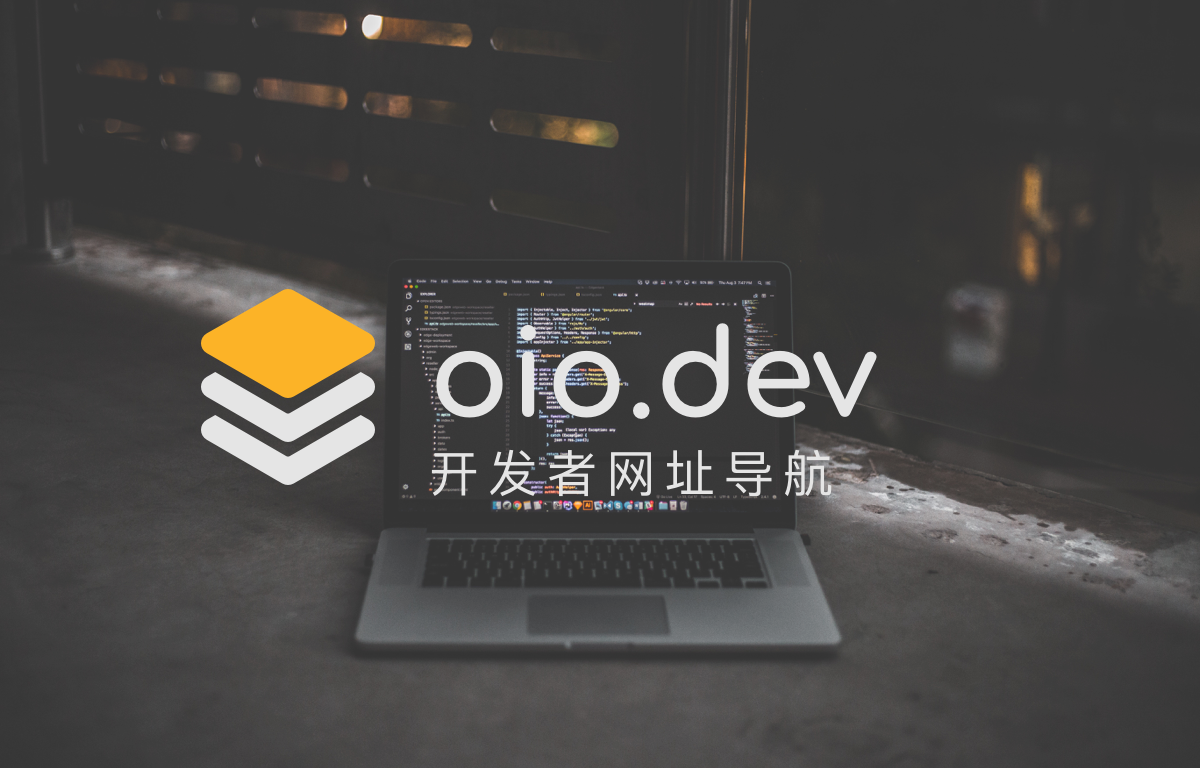
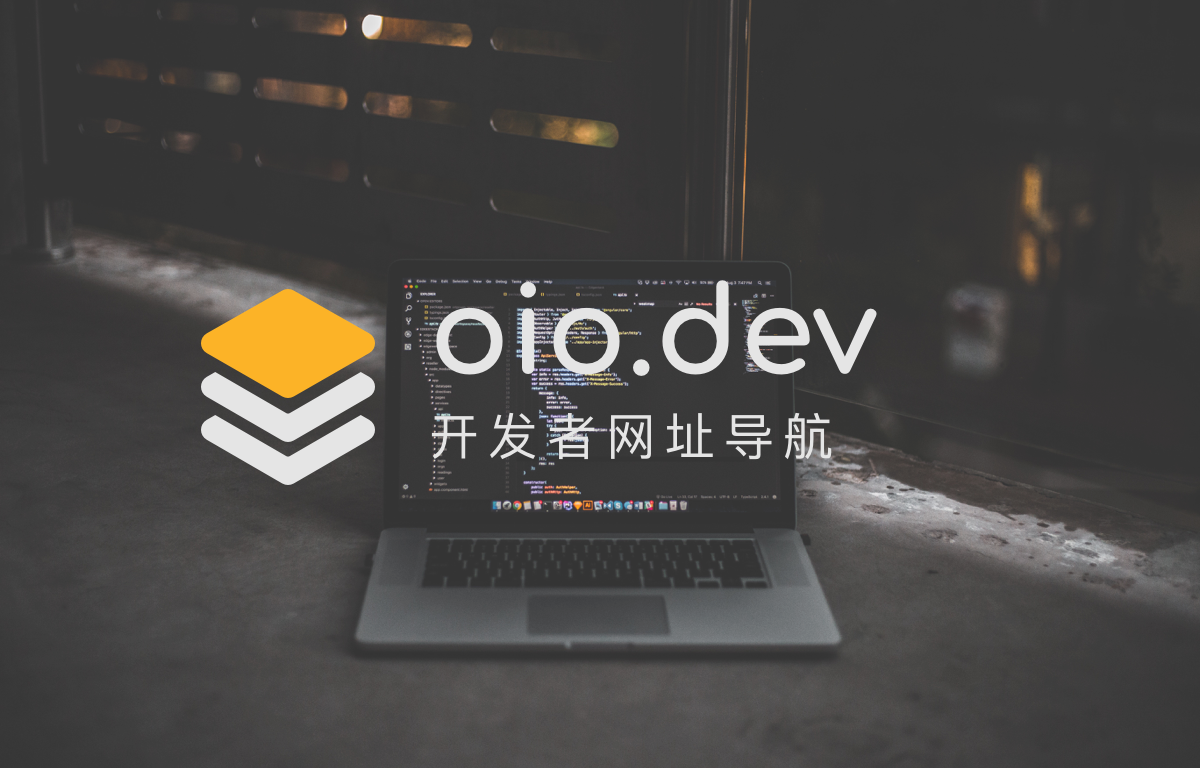
更新banner图片

Changed region(s): [[0.3392, 0.375, 0.74, 0.6562]]

diff --git a/about.html b/about.html
@@ -39,13 +39,13 @@
     <meta property="og:url" content="https://oio.dev/">
     <meta property="og:title" content="oio.dev - 开发者网址导航">
     <meta property="og:description" content="oio - 收集国内外优秀app开发网站、app开发资源网站、灵感创意网站、素材资源网站，定时更新分享优质app开发书签。oio.dev">
-    <meta property="og:image" content="https://oio.dev/assets/images/webstack_banner_cn.png">
+    <meta property="og:image" content="https://oio.dev/assets/images/oio_banner.png">
     <meta property="og:site_name" content="oio - 收集国内外优秀app开发网站、app开发资源网站、灵感创意网站、素材资源网站，定时更新分享优质app开发书签。oio.dev">
     <!-- / Twitter Cards -->
     <meta name="twitter:card" content="summary_large_image">
     <meta name="twitter:title" content="oio.dev - 开发者网址导航">
     <meta name="twitter:description" content="oio - 收集国内外优秀app开发网站、app开发资源网站、灵感创意网站、素材资源网站，定时更新分享优质app开发书签。oio.dev">
-    <meta name="twitter:image" content="https://oio.dev/assets/images/webstack_banner_cn.png">
+    <meta name="twitter:image" content="https://oio.dev/assets/images/oio_banner.png">
 </head>
 
 <body class="page-body boxed-container">
